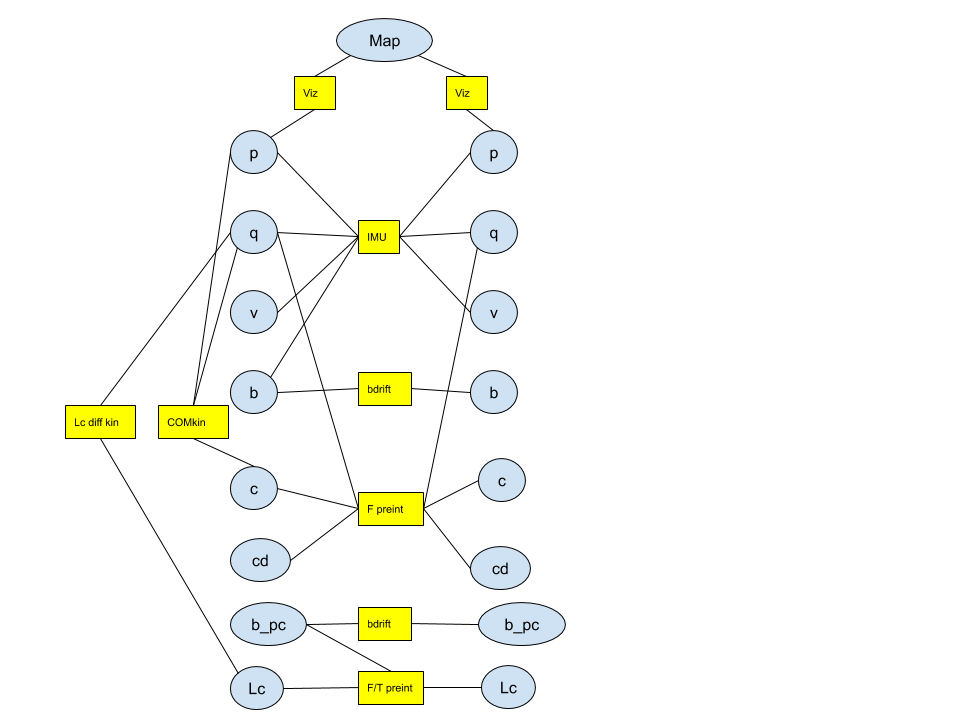
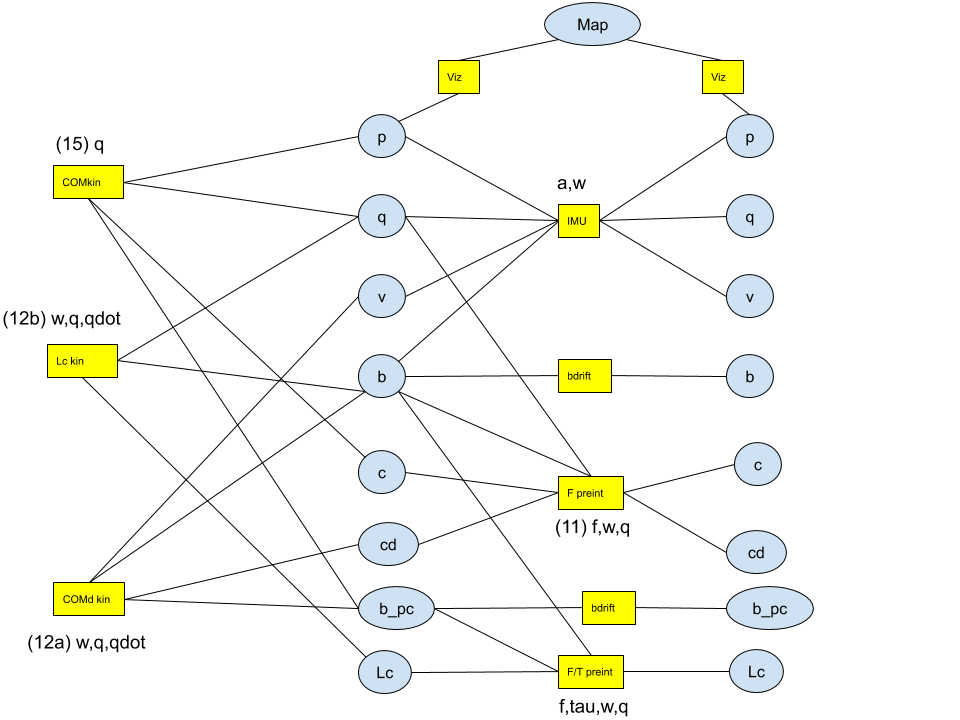
Some cleanup and new COM factor graph

diff --git a/main.tex b/main.tex
@@ -352,9 +352,9 @@ Differential kinematics expressed in $W$ with measurement models included and re
 \begin{split}
 \dot{\COM} &= \vel{}{} + (\Rot{}{}(\angvelm{B}{B} - \bfb_{\omega} - \noise_{\omega})) \times (\Rot{}{}\posim{B}{BC}(q)) + \Rot{}{}\velm{B}{BC}(q,\dot{q}) 
 \\
-&= \vel{}{} + \Rot{}{}((\angvelm{B}{B} - \bfb_{\omega} - \noise_{\omega}) \times \posim{B}{BC}(q) + \velm{B}{BC}(q,\dot{q}))
+&= \vel{}{} + \Rot{}{}((\angvelm{B}{B} - \bfb_{\omega} - \noise_{\omega}) \times \posi{B}{BC}(q) + \vel{B}{BC}(q,\dot{q}))
 \\
-% \AM_c &= \bfI(q) \angvel{B} + \AM_q (q,\dot{q})   
+\AM_c &= \Rot{}{}(\bfI(q) (\angvelm{B}{B} - \bfb_{\omega} - \noise_{\omega}) + \AM_q (q,\dot{q}))
 \end{split}
 \end{equation}
 
@@ -401,6 +401,7 @@ which directly defines a tertiary factor between the pose (R,p) of the robot and
     % \includegraphics[width=0.7\linewidth]{IMU-Apriltag-Kinematics-Com.png}
     \includegraphics[width=1\linewidth]{HumanoidStateFactorGraph.png}
     % \caption{Factor graph representation of the simultaneous estimation of the robot state and COM state. Gray circles represent variables with from top to bottom Li: landmarks, p: robot position, q: robot orientation, v: robot velocity, b: IMU biases, c: COM position in foot frame, cd: COM velocity in foot frame, Lc: system angular momentum in foot frame. Constraints are represented as squares with A: Apriltag, O: odometry using forward kinematics, I: IMU, AR: absolute orientation, BD: bias drift, RP: relative position of the COM wrt. the robot reference frame, FM: force and moment measurements integration.}
+    % \caption{Latest version at https://docs.google.com/drawings/d/1XQ80bcXe--4V49n_bDHHNxId_9YTiQ_YTVO0kwxaypA}
     \label{fig:my_label}
 \end{figure}
 
